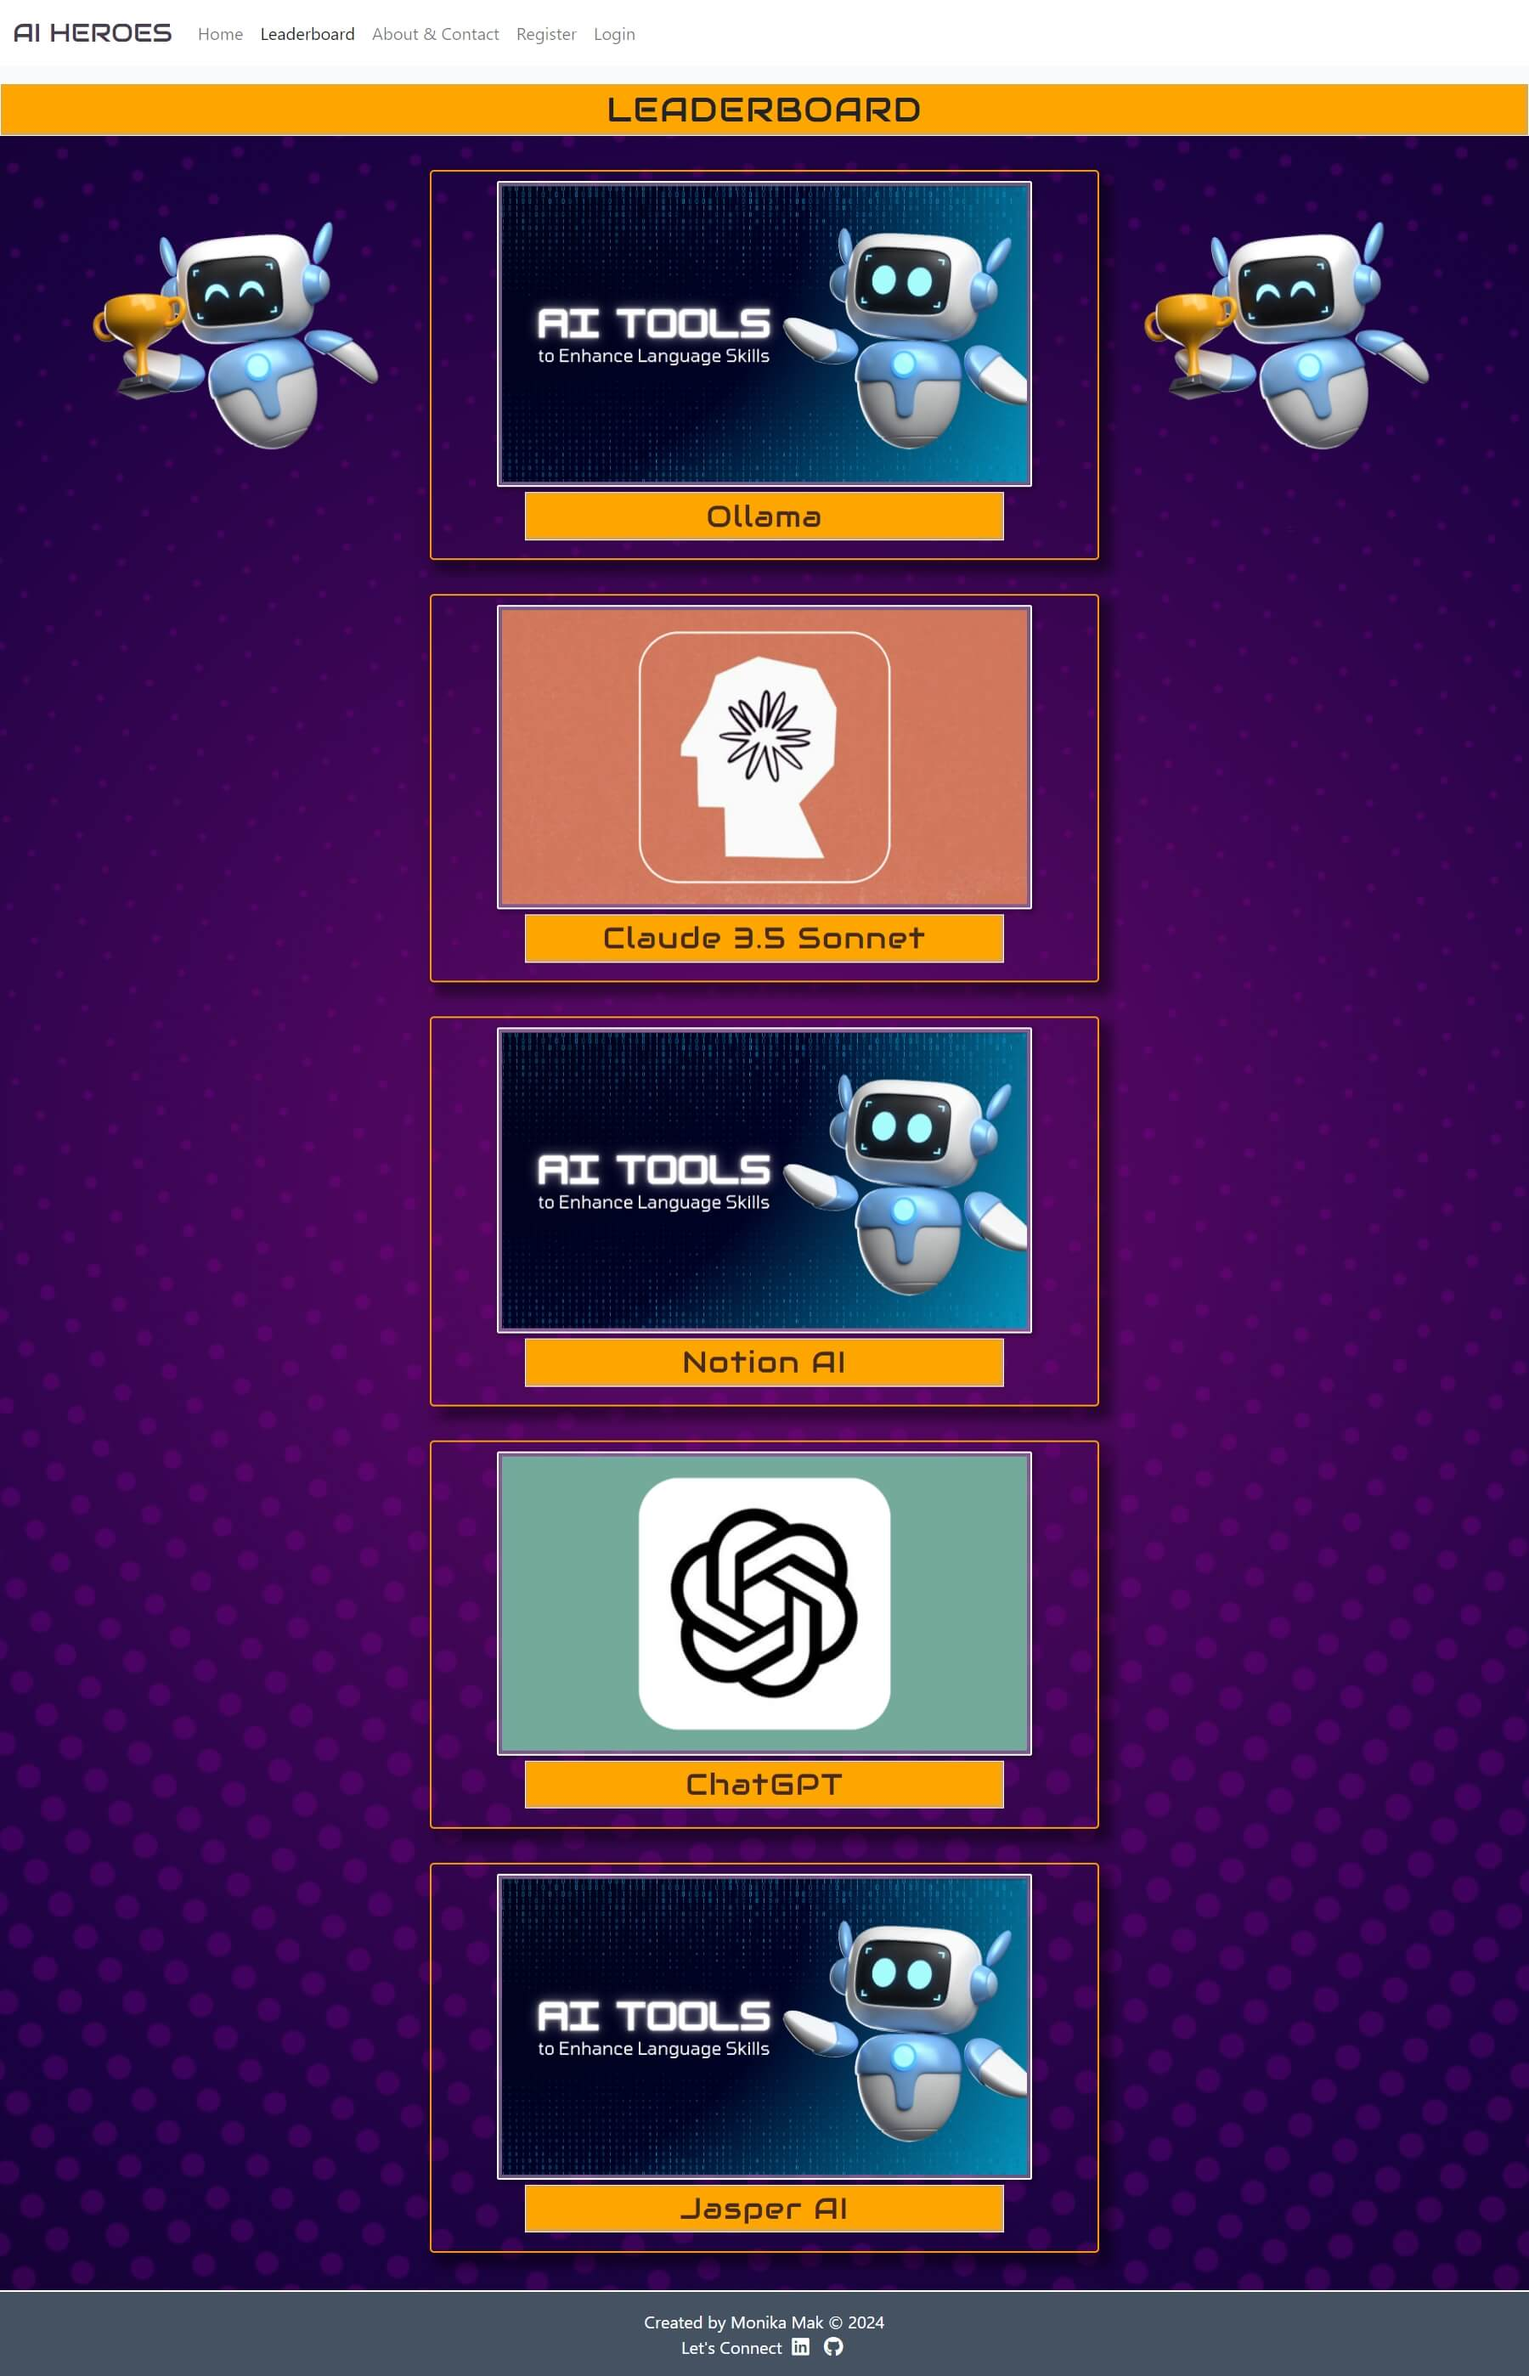
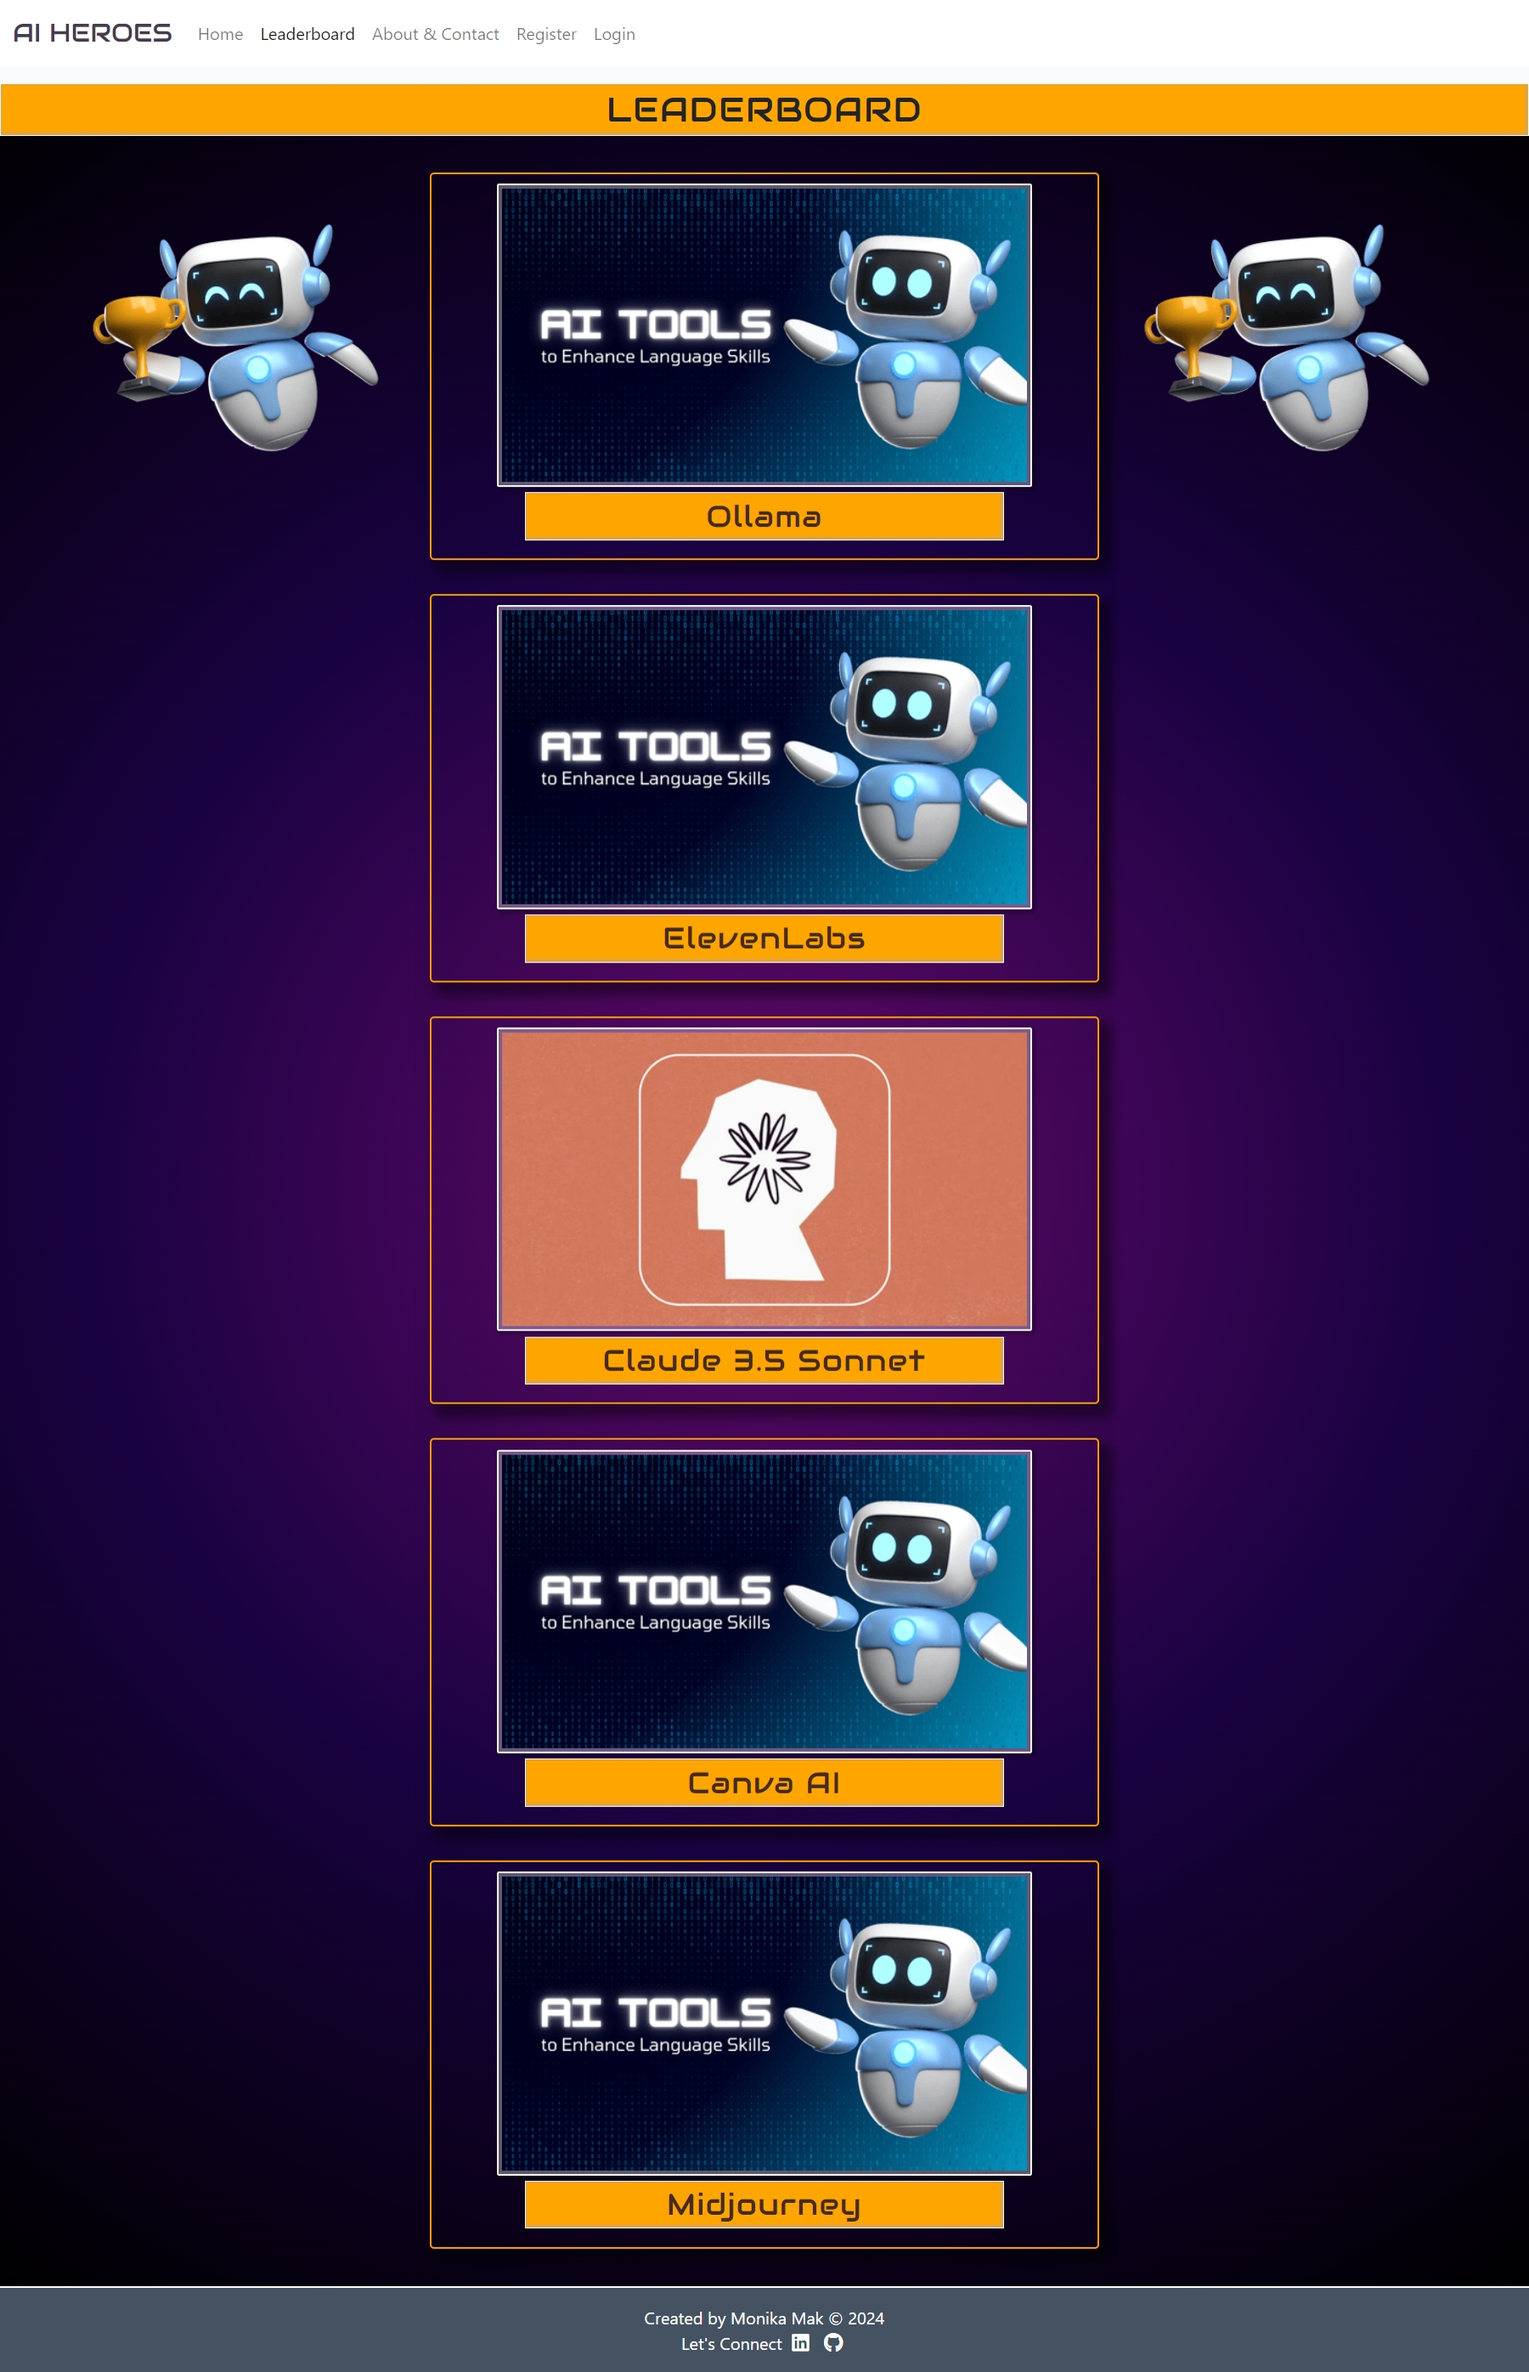
replace images leaderboard

diff --git a/static/css/style.css b/static/css/style.css
@@ -89,9 +89,6 @@ a {
     color: white;
     font-weight: 300;
 }
-.hero-background {
-    background-size: cover;
-}
 
 .bckg-img{
     background-image: url('/static/images/matrix_blue_bg.webp')

diff --git a/ai_heroes/settings.py b/ai_heroes/settings.py
@@ -28,8 +28,7 @@ TEMPLATES_DIR = os.path.join(BASE_DIR, 'templates')
 # SECURITY WARNING: keep the secret key used in production secret!
 SECRET_KEY = os.environ.get("SECRET_KEY")
 # SECURITY WARNING: don't run with debug turned on in production!
-DEBUG = True
-
+DEBUG = False
 ALLOWED_HOSTS = [
     '8000-monikamak-aiheroespp4-y4ys4ixf98g.ws.codeinstitute-ide.net',
     '.herokuapp.com'
